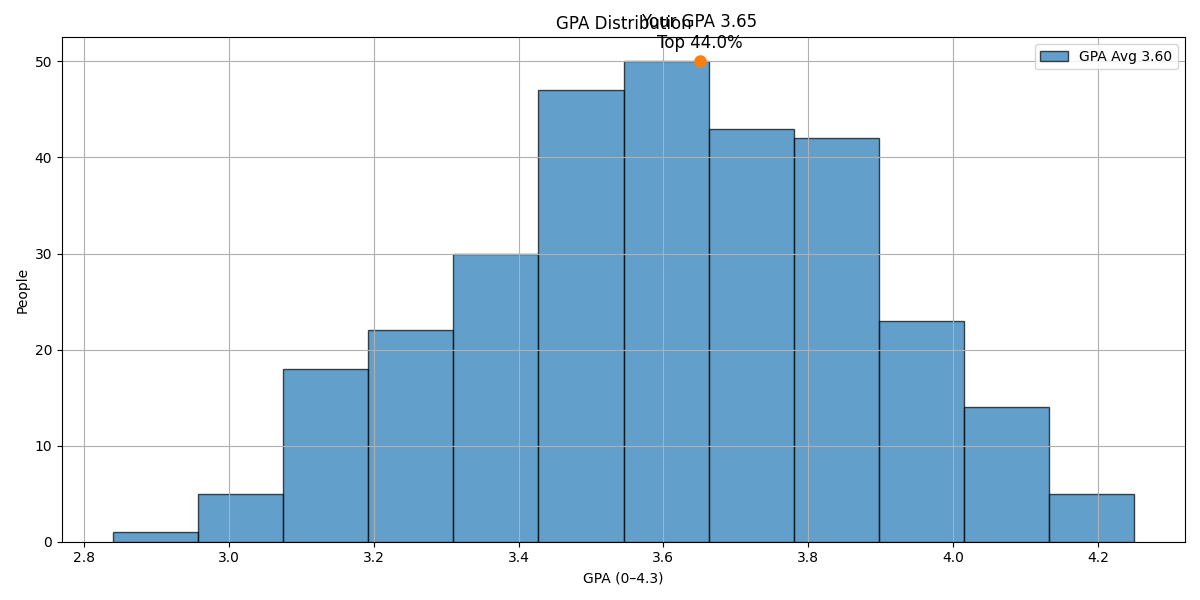
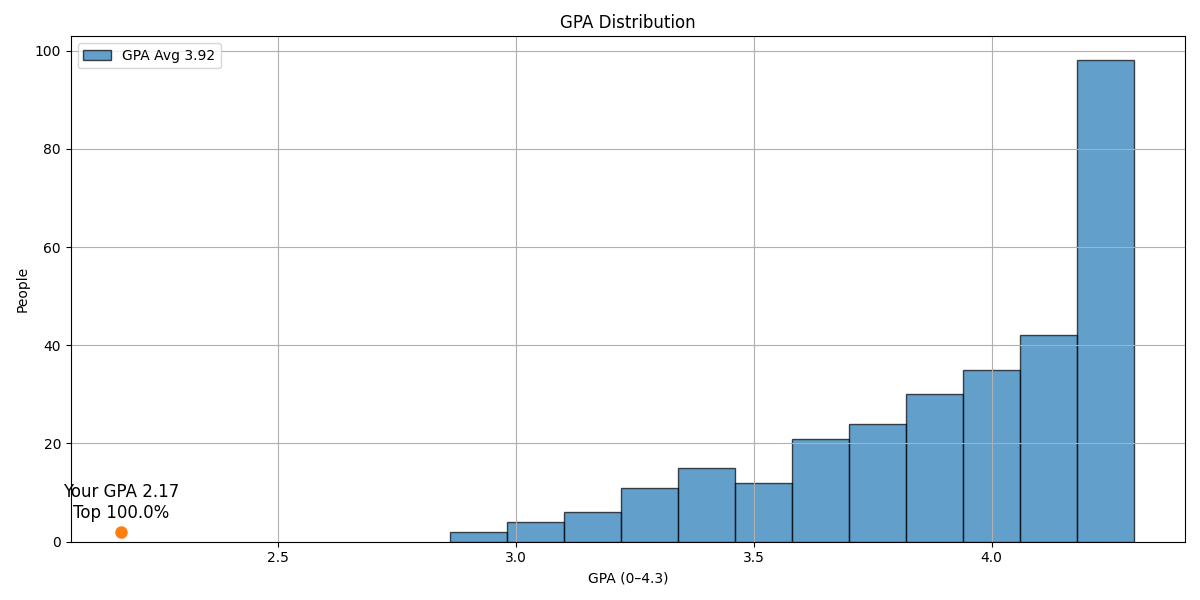
Refactor EndScene and RankScene to inherit from MainScene; update GPA display and add player data visualization in simulation

diff --git a/UI/end_scene.py b/UI/end_scene.py
@@ -1,12 +1,12 @@
 import pygame
 from UI.components.base_scene import BaseScene
+from UI.main_scene import MainScene
 from UI.components.character_animator import CharacterAnimator
-from simulation import Simulation
 from UI.components.audio_manager import AudioManager
 
-class EndScene(BaseScene):
+class EndScene(MainScene):
     def __init__(self, screen, player):
-        super().__init__(screen)
+        super().__init__(screen, player)
         self.background = pygame.image.load(
             "resource/image/background_intro.png"
         ).convert_alpha()
@@ -14,10 +14,10 @@ class EndScene(BaseScene):
             self.background, self.screen.get_size()
         )
         self.background.set_alpha(100)
-
+        
         self.player = player
         self.title_font = pygame.font.Font(
-            "resource/font/JasonHandwriting3-SemiBold.ttf", 72
+            "resource/font/JasonHandwriting3-SemiBold.ttf", 54
         )
         self.subtitle_font = pygame.font.Font(
             "resource/font/JasonHandwriting3-Regular.ttf", 48
@@ -59,9 +59,8 @@ class EndScene(BaseScene):
             )
 
         # ---------- 裝飾動畫 ----------
-        self.animator1 = CharacterAnimator("resource/gif/four_char_frames", (850, 400),(300, 300)) 
         self.animator2 = CharacterAnimator(self.player.ending, (50, 400), (300, 300))
-        self.animator1.frame_delay = 3
+        
         self.animator2.frame_delay = 3
         # ---------- 其他 ----------
         self.selected_result = None
@@ -71,7 +70,7 @@ class EndScene(BaseScene):
     # -------------------------------------------------------------
     def update(self):
         self.clock.tick(self.FPS)
-        self.animator1.update()
+        
         self.animator2.update()
         mouse_pos = pygame.mouse.get_pos()
 
@@ -180,21 +179,27 @@ class EndScene(BaseScene):
         self.screen.blit(self.background, (0, 0))
         self.draw_player_stats()
         # 裝飾動畫
-        self.animator1.draw(self.screen)
         self.animator2.draw(self.screen)
 
         # 標題
         title_surf = self.title_font.render(
-            f"Congratulation!! Your Final GPA = {self.player.GPA}", True, (50, 50, 50)
+            f"Congratulation!!", True, (50, 50, 50)
         )
-        title_rect = title_surf.get_rect(center=(self.SCREEN_WIDTH // 2 + 150, 150))
+        title_rect = title_surf.get_rect(center=(self.SCREEN_WIDTH // 2 + 200, 150))
         self.screen.blit(title_surf, title_rect)
+
+        # 印出玩家的GPA
+        gpa_surf = self.subtitle_font.render(
+            f"{self.player.name}'s Final GPA：{self.player.GPA:.2f}", True, (50, 50, 50)
+        )
+        gpa_rect = gpa_surf.get_rect(center=(self.SCREEN_WIDTH // 2 + 200, 200))
+        self.screen.blit(gpa_surf, gpa_rect)
 
         # 副標題
         subtitle_surf = self.subtitle_font.render(
             f"期中考：{self.player.midterm}, 期末考：{self.player.final}", True, (50, 50, 50)
         )
-        subtitle_rect = subtitle_surf.get_rect(center=(self.SCREEN_WIDTH // 2 + 150 , 200))
+        subtitle_rect = subtitle_surf.get_rect(center=(self.SCREEN_WIDTH // 2 + 200 , 250))
         self.screen.blit(subtitle_surf, subtitle_rect)
 
 

diff --git a/main.py b/main.py
@@ -71,8 +71,8 @@ def select_character(screen):
 
 
 def game_loop(screen, player):
-    pygame.display.set_caption(f"第 {player.week_number} 週｜角色：{player.name}")
     while player.week_number < 16:
+        pygame.display.set_caption(f"第 {player.week_number} 週｜角色：{player.name}")
         scene = MainScene(screen, player)
         player_option = scene.run()
         print(f"玩家選擇的操作為：{player_option!r}")
@@ -101,33 +101,33 @@ def game_loop(screen, player):
         elif player_option == "Quit":
             print("遊戲結束")
             return False
+    return True
         
         
-
-
 def end_game(screen, player):
     pygame.display.set_caption("End of Game")
-    scene = EndScene(screen, player)
-    
-
-    if scene.run() == "SHOW_RANK":
-        rank_scene = RankScene(screen, player)
-        rank_scene.run()
-        return end_game(screen, player)
-    
-    elif scene.run() == "RESTART":
-        print("重新開始遊戲")
-        return start_game(screen)
-
-
-    elif scene.run() == "FEEDBACK":
-        # 導入外部連結或表單
-        import webbrowser
-        webbrowser.open("https://forms.gle/kfpH9eV348CGnTZa8")
-        print("感謝您的回饋！")
-    if scene.run() == "Exit":
-        print("遊戲結束，謝謝遊玩！")
-
+    while True:
+        scene = EndScene(screen, player)
+        result = scene.run()
+        if result == "SHOW_RANK":
+            rank_scene = RankScene(screen, player)
+            rank_scene.run()
+            # 回到結尾場景
+        elif result == "RESTART":
+            print("重新開始遊戲")
+            return "RESTART"
+        elif result == "FEEDBACK":
+            import webbrowser
+            webbrowser.open("https://forms.gle/kfpH9eV348CGnTZa8")
+            print("感謝您的回饋！")
+            # 回到結尾場景
+        elif result == "Exit":
+            print("遊戲結束，謝謝遊玩！")
+            return False
+        else:
+            # 其他情況也結束
+            return False
+        
 
 # 🕹 主程序入口點
 def main():
@@ -147,17 +147,16 @@ def main():
         if not isinstance(player, Character):
             continue  # 沒有選擇角色，回到主選單
 
-        
         if not game_loop(screen, player):
             break
-        # 遊戲結束，進入結尾場景
-        end_game(screen, player)
-        # 如果結尾場景選擇重新開始，則回到主選單
-        if not start_game(screen):
+        
+        player.calculate_GPA()
+        if not end_game(screen, player):
             break
-    # 清理資源
-        # 遊戲結束後自動回到主選單
+
+
     pygame.quit()
+
 
 if __name__ == "__main__":
     main()

diff --git a/UI/rank_scene.py b/UI/rank_scene.py
@@ -2,17 +2,20 @@ import pygame
 from UI.components.character_animator import CharacterAnimator
 from UI.components.base_scene import BaseScene
 from UI.components.audio_manager import AudioManager
+from simulation import Simulation
 
 class RankScene(BaseScene):
-    def __init__(self, screen):
+    def __init__(self, screen, player):
         super().__init__(screen)
         self.audio = AudioManager.get_instance()
-
+        self.player = player
         # 背景
         self.background = pygame.image.load("resource/image/background_intro.png").convert_alpha()
         self.background = pygame.transform.scale(self.background, self.screen.get_size())
         self.background.set_alpha(100)
 
+        self.simulation = Simulation()
+        self.simulation.run_and_plot_all_with_player(player)
         self.overlay_surface = pygame.Surface(screen.get_size(), pygame.SRCALPHA)
         self.overlay_alpha = 0 
 
@@ -20,8 +23,10 @@ class RankScene(BaseScene):
         self.font_desc = pygame.font.Font("resource/font/JasonHandwriting3-Regular.ttf", 36)
 
         # 動畫角色
-        self.animator = CharacterAnimator("resource/gif/mitao_rest_frames", (900, 30), (240, 220))
+        self.animator = CharacterAnimator(self.player.ending, (900, 30), (240, 220))
         self.animator.frame_delay = 5
+
+
 
         # 圖片載入與縮放
         self.image_paths = [

diff --git a/simulation.py b/simulation.py
@@ -1,5 +1,5 @@
 # simulation.py
-from character import Bubu, Yier, Mitao, Huihui
+from character import Bubu, Yier, Mitao, Huihui,Character
 import random, statistics, math
 import matplotlib.pyplot as plt
 from collections import Counter
@@ -243,6 +243,13 @@ class Simulation:
         self.plot_total()
         self.plot_gpa(highlight=personal_gpa)
         #print(f"完成！所有圖檔位於 {self.out_dir.resolve()}")
+
+    def run_and_plot_all_with_player(self, player) -> None:
+        self.run()
+        self.plot_midterm_final(highlight_mid=player.midterm, highlight_final=player.final)
+        self.plot_total(highlight=player.total_score)
+        self.plot_gpa(highlight=player.GPA)
+        
 
     def export_gpa_csv(
         self,

diff --git a/character.py b/character.py
@@ -200,6 +200,8 @@ class Huihui(Character):
         self.testing = "resource/gif/huihui_running_frames"
         self.ending = "resource/gif/huihui_flower_frames"
 
+        self.week_number = 7
+
     def get_midterm(self):
         self.midterm = min(100, self.calculate_grade() + self.knowledge * 0.2)
         if self.mood > 85:

diff --git a/UI/story_scene.py b/UI/story_scene.py
@@ -167,6 +167,7 @@ class StoryScene(BaseScene):
             lucky_scene = LuckyWheelScene(self.screen, options)
             result = lucky_scene.run()
             self.player.lucky_prof = result
+            
                     
             
         
